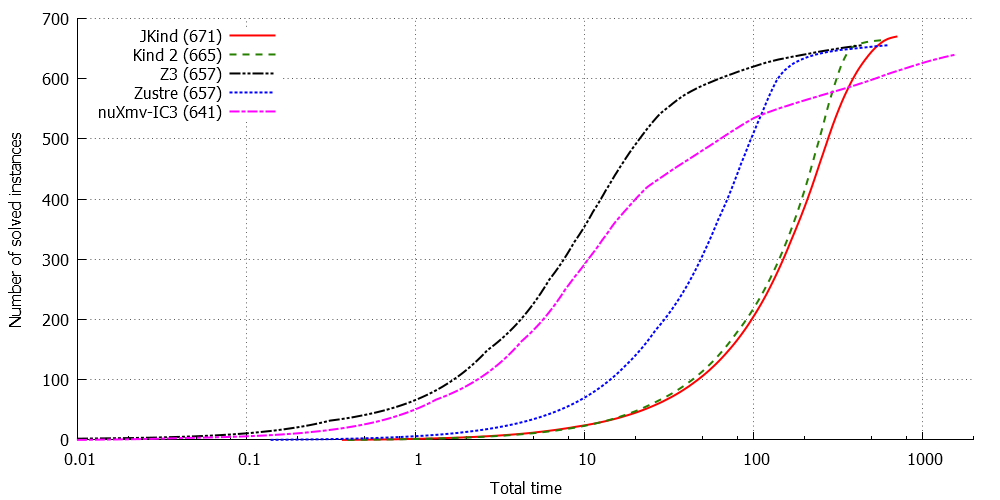
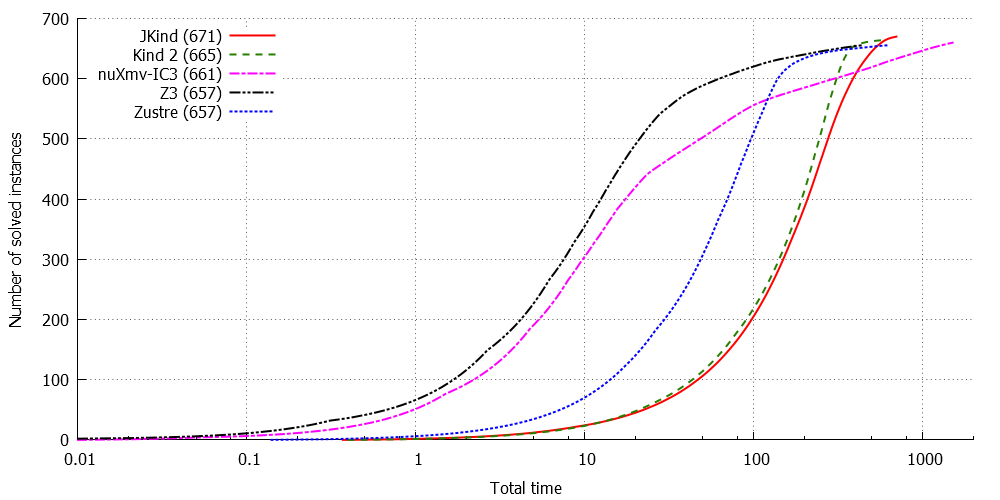
Updated graph based on nuXmv results

diff --git a/results/process.py b/results/process.py
@@ -21,6 +21,9 @@ for filename in ['nuxmv.txt', 'z3.txt', 'kind2.txt', 'jkind.txt', 'zustre.txt']:
                     # Check for Zustre fatal errors
                     if 'Fatal error' in lines[i]:
                         time = 60
+                    # Check for nuXmv crashes
+                    if 'Segmentation fault' in lines[i]:
+                        time = 60
                     i -= 1
 
                 if time < 60:
